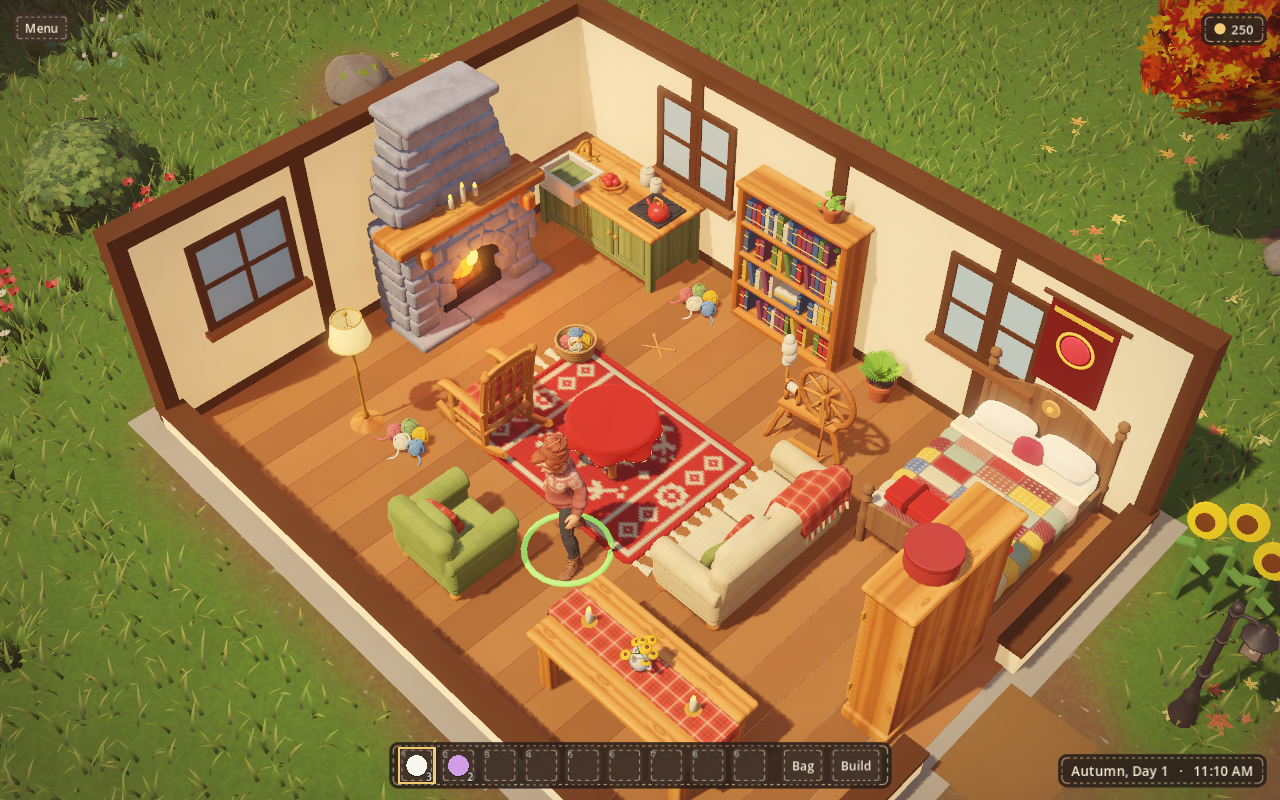
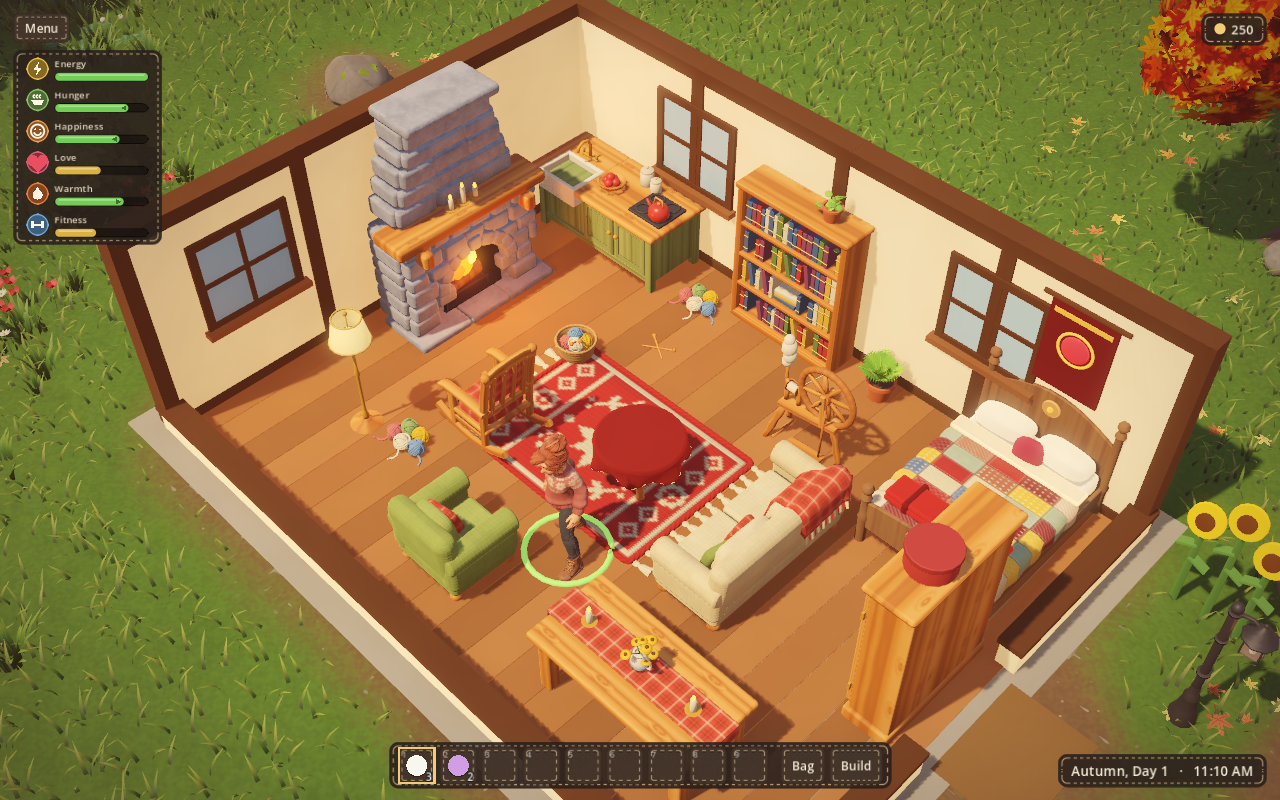
Coffee table: nearer the couch, in a darker red cloth
Alex asked for both. A new house's table stands 40 cm further toward where a
sofa goes, so it no longer sits on the middle of the new rug, and its cloth
uses the palette's rug_wine instead of plaid (the material is renamed in the
GLB; the game colours wool_<id> surfaces from data/palette.json).

Autotest: 185 passes, no failures.

diff --git a/AGENTS.md b/AGENTS.md
@@ -77,7 +77,7 @@ Alex arranges the map himself in the game: Settings > God mode > "Edit the world
 | `assets/props/trash_can.glb` (the barrel trash can; the bench's wood and iron shaders, baked) | `art/world_assets/trash_can/build.py` (Blender; it loads `bench_park/build.py` for the shaders) | `Blender --background --factory-startup --python-exit-code 1 --python art/world_assets/trash_can/build.py`, then copy `out/trash_can.glb` to `assets/props/` and import |
 | `assets/props/fence_section.glb`, `fence_post.glb`, `fence_rails.glb` (the sheep pen's fence: `World.build_pen` uses the post and the rails), `hay_bale.glb`, `scarecrow.glb` | `art/world_assets/farm_props/build.py` (Blender; reviewed with blender-kiln, logs beside it) | `Blender --background --factory-startup --python-exit-code 1 --python art/world_assets/farm_props/build.py -- <kind>` (or `all`): it copies the GLB to `assets/props/`; then import (Godot extracts its textures beside it) |
 | `assets/props/bakery_stall.glb`, `chalkboard_sign.glb`, `daisy_crate.glb` | `art/world_assets/bakery_stall/build.py` (Blender; reviewed with blender-kiln, logs beside it) | `Blender --background --factory-startup --python-exit-code 1 --python art/world_assets/bakery_stall/build.py -- <kind>` (or `all`), then import |
-| `assets/props/market_stall.glb`, `coffee_table.glb` (made by Codex, parts joined) | `tools/join_meshes.py` | `Blender -b --factory-startup -P tools/join_meshes.py -- <in.glb> assets/props/<id>.glb` |
+| `assets/props/market_stall.glb`, `coffee_table.glb` (made by Codex, parts joined; the table's cloth was moved to the palette's `rug_wine` by renaming its material in the GLB, so a re-join from the source needs that again) | `tools/join_meshes.py` | `Blender -b --factory-startup -P tools/join_meshes.py -- <in.glb> assets/props/<id>.glb` |
 
 Animation loops: the procedural bodies get theirs (Idle, Walk, SitKnit, SitIdle, Work, Talk) from Python pose functions in `build_character.py`. The Tripo models the game uses get motion-captured loops instead: `tools/retarget_anims.py` copies Idle, Walk, Brisk, Run (the Shift jog), Talk, SitIdle and Work from Quaternius's Universal Animation Library (CC0, free on itch.io, not in the repo) onto their rigs, and keeps their SitKnit. The order matters. Re-rigging a Tripo model with `rig_sculpt.py` brings back the procedural loops, so run the retarget after it:
 
